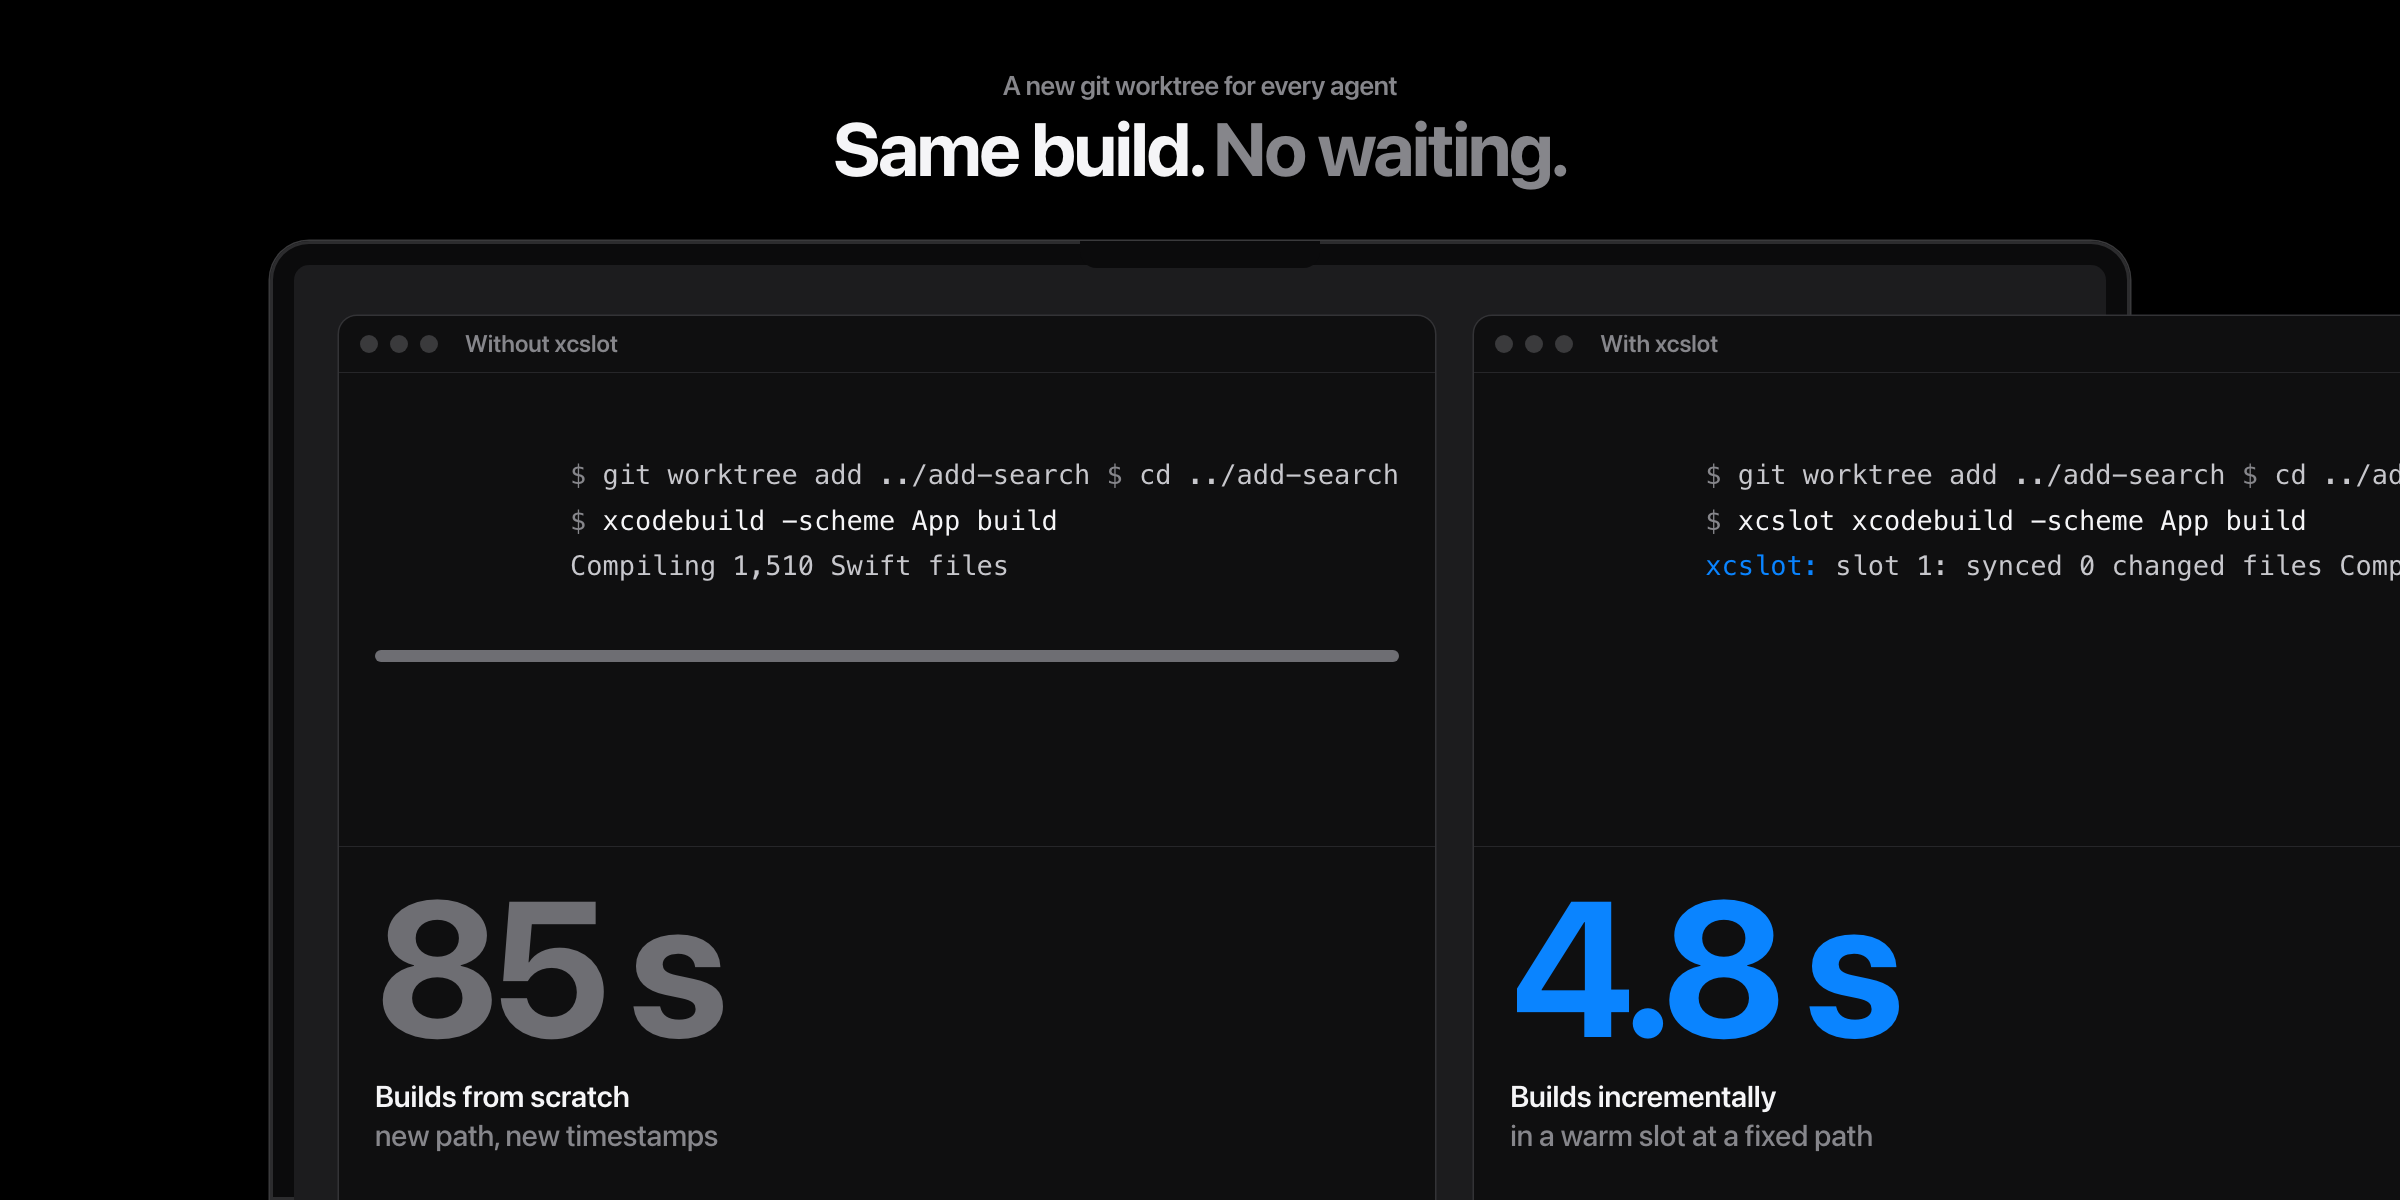
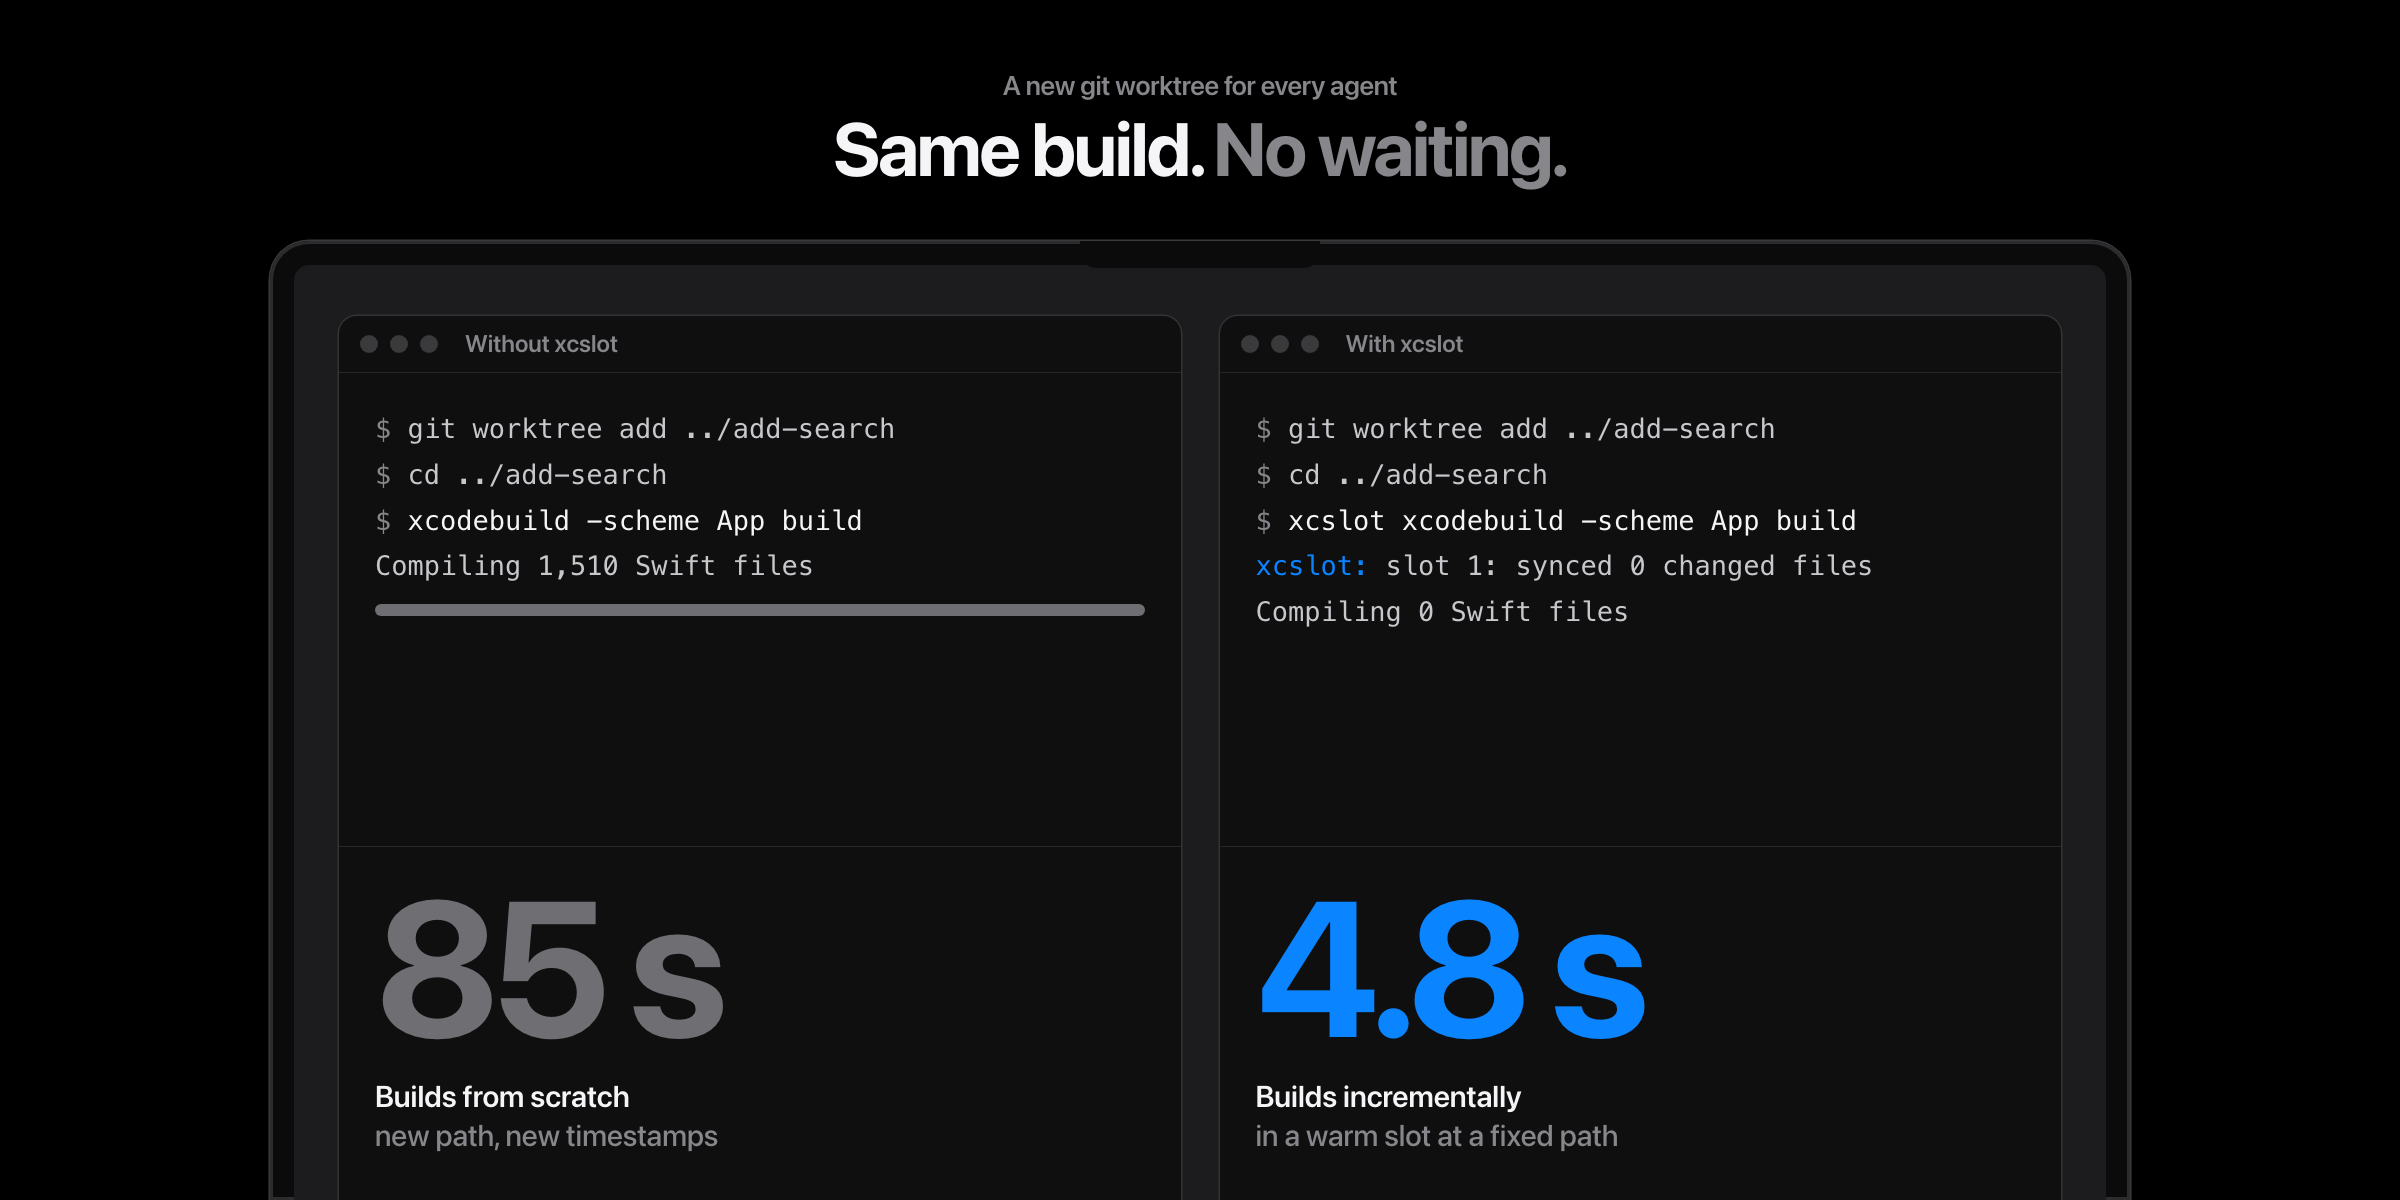
Fix the README header and two badges (#6)
bun fmt had joined the header's terminal lines, which were plain divs with
white-space: pre, and the header was rendered from the joined text. The lines
now live in pre blocks, which the formatter keeps. The release and CI badges
from shields.io failed to load through GitHub's image proxy; CI now uses
GitHub's own badge and the release chip becomes a static platform chip.

diff --git a/scripts/art/header.html b/scripts/art/header.html
@@ -87,7 +87,7 @@
         background: #1c1c1e;
         padding: 34px 30px 0;
         display: grid;
-        grid-template-columns: 1fr 1fr;
+        grid-template-columns: minmax(0, 1fr) minmax(0, 1fr);
         gap: 26px;
       }
       .win {
@@ -118,6 +118,8 @@
         color: var(--muted);
       }
       .body {
+        margin: 0;
+        overflow: hidden;
         padding: 22px 24px 6px;
         font: 18px/1.7 var(--mono);
         color: #c7c7cc;
@@ -133,6 +135,7 @@
         color: var(--blue);
       }
       .track {
+        display: block;
         margin: 10px 0 4px;
         height: 8px;
         border-radius: 4px;
@@ -140,6 +143,7 @@
         overflow: hidden;
       }
       .fill {
+        display: block;
         height: 100%;
         width: 100%;
         background: #6e6e73;
@@ -188,12 +192,11 @@
           <div class="bar">
             <i class="d"></i><i class="d"></i><i class="d"></i><span class="ttl">Without xcslot</span>
           </div>
-          <div class="body">
-            <span class="p">$</span> git worktree add ../add-search <span class="p">$</span> cd ../add-search
-            <span class="p">$</span> <span class="hl">xcodebuild -scheme App build</span>
-            Compiling 1,510 Swift files
-            <div class="track"><div class="fill"></div></div>
-          </div>
+          <pre class="body"><span class="p">$</span> git worktree add ../add-search
+<span class="p">$</span> cd ../add-search
+<span class="p">$</span> <span class="hl">xcodebuild -scheme App build</span>
+Compiling 1,510 Swift files
+<span class="track"><span class="fill"></span></span></pre>
           <div class="result">
             <span class="big slow">85 s</span
             ><span class="note"><b>Builds from scratch</b>new path, new timestamps</span>
@@ -201,11 +204,11 @@
         </div>
         <div class="win">
           <div class="bar"><i class="d"></i><i class="d"></i><i class="d"></i><span class="ttl">With xcslot</span></div>
-          <div class="body">
-            <span class="p">$</span> git worktree add ../add-search <span class="p">$</span> cd ../add-search
-            <span class="p">$</span> <span class="hl">xcslot xcodebuild -scheme App build</span>
-            <span class="b">xcslot:</span> slot 1: synced 0 changed files Compiling 0 Swift files
-          </div>
+          <pre class="body"><span class="p">$</span> git worktree add ../add-search
+<span class="p">$</span> cd ../add-search
+<span class="p">$</span> <span class="hl">xcslot xcodebuild -scheme App build</span>
+<span class="b">xcslot:</span> slot 1: synced 0 changed files
+Compiling 0 Swift files</pre>
           <div class="result">
             <span class="big fast">4.8 s</span
             ><span class="note"><b>Builds incrementally</b>in a warm slot at a fixed path</span>

diff --git a/README.md b/README.md
@@ -11,10 +11,10 @@
     <img src="https://img.shields.io/badge/Homebrew-ertembiyik%2Ftap%2Fxcslot-f38020?logo=homebrew&logoColor=white" alt="Install with Homebrew" />
   </a>
   <a href="https://github.com/ertembiyik/xcslot/releases/latest">
-    <img src="https://img.shields.io/github/v/release/ertembiyik/xcslot?label=Release" alt="Latest release" />
+    <img src="https://img.shields.io/badge/macOS-Apple_silicon_%7C_Intel-555?logo=apple&logoColor=white" alt="macOS on Apple silicon and Intel" />
   </a>
   <a href="https://github.com/ertembiyik/xcslot/actions/workflows/ci.yml">
-    <img src="https://img.shields.io/github/actions/workflow/status/ertembiyik/xcslot/ci.yml?branch=main&label=CI" alt="CI status" />
+    <img src="https://github.com/ertembiyik/xcslot/actions/workflows/ci.yml/badge.svg?branch=main" alt="CI status" />
   </a>
   <a href="LICENSE">
     <img src="https://img.shields.io/badge/License-MIT-green.svg" alt="MIT License" />

diff --git a/AGENTS.md b/AGENTS.md
@@ -61,6 +61,8 @@ Use bun for everything. `bun lint` joins `verify` when Bun 1.4.6 is stable; it i
 - **Debug builds keep debug info in the slot's object files.** After the slot is rebuilt, a debugger attached
   to an older product shows wrong lines without failing. Products are handed out with a dSYM for that reason.
 - **Debug app bundles keep their code in `<Name>.debug.dylib`**, not in the small launcher executable.
+- **`bun fmt` reflows HTML text.** Terminal text in `scripts/art/*.html` lives in `<pre>`, which it leaves alone;
+  anything else loses its line breaks, and the next `bun run art` renders it as one line.
 - **`xcodebuild -list` without `-derivedDataPath` writes package checkouts into Xcode's default DerivedData.**
   Metadata queries go through the slot too.
 
